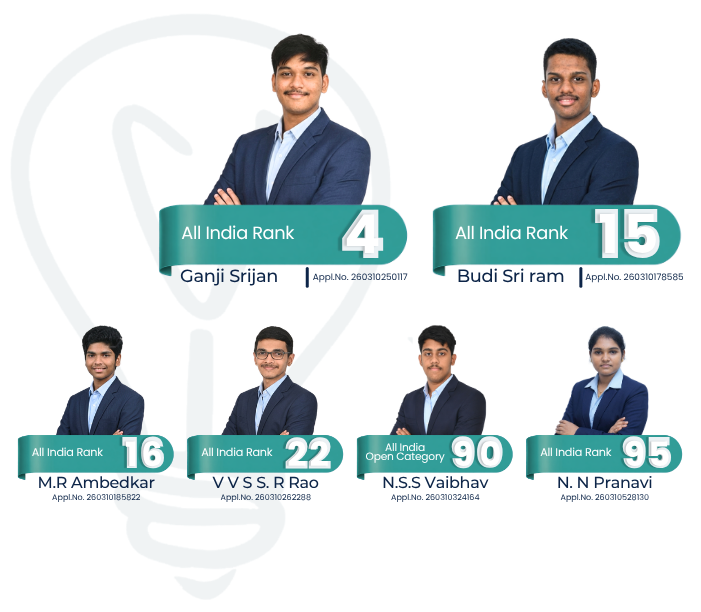
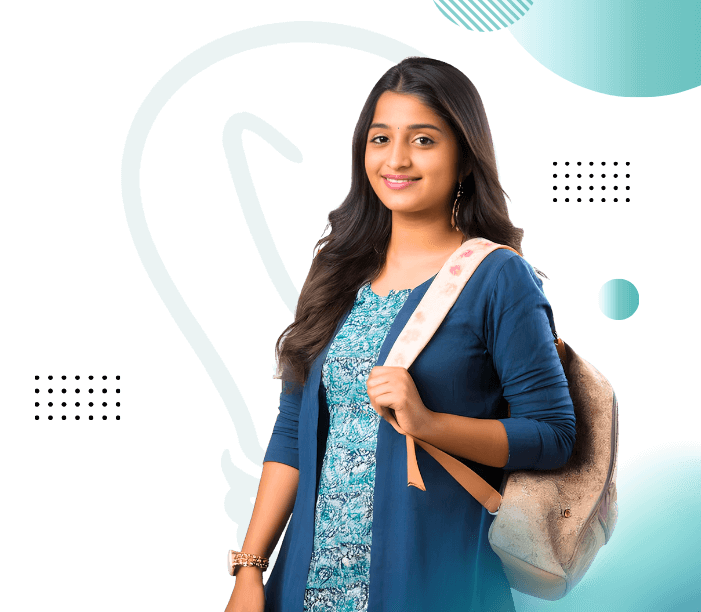
fixed

diff --git a/index.html b/index.html
@@ -163,7 +163,6 @@
     <!-- Hero Section -->
     <section id="hero" class="hero section">
       <div class="container" data-aos="fade-up" data-aos-delay="100">
-<<<<<<< HEAD
         <div class="row align-items-center">
           <div class="col-lg-7">
             <div class="hero-content" data-aos="fade-up" data-aos-delay="200">
@@ -191,16 +190,16 @@
           <div class="col-lg-5">
             <div class="hero-image" data-aos="zoom-out" data-aos-delay="300">
               <img src="assets/img/banner.png" alt="Hero Image" class="img-fluid">
-=======
-        <div class="row justify-content-center align-items-center p-md-0">
 
-          <div class="col-12 col-md-10 col-lg-12 text-center p-md-0">
-            <img src="assets/img/hero_banner.png" alt="Hero Image" class="img-fluid rounded-4">
+              <div class="customers-badge">
+
+                <img src="assets/img/logo_green.png" class="img-fluid">
+              </div>
+
+
+            </div>
           </div>
->>>>>>> a48c658a115e774c135b82ce45046f38d1d0c84c
-
         </div>
-
         <div class="row stats-row gy-4 mt-5 aos-init aos-animate" data-aos="fade-up" data-aos-delay="500">
           <div class="col-lg-3 col-md-6">
             <div class="stat-item">
@@ -542,15 +541,9 @@
                   Abhyas ensures that <b>teachers remain at the center of learning</b>, using structured methodologies
                   to <b>enhance classroom effectiveness and optimize student outcomes.</b>
                 </p>-->
-<<<<<<< HEAD
                 <!-- <div class="text-start">
                   <a href="#Request_for_Demo" class="btn btn-primary btn-sm newBt">Request a Pilot</a>
                 </div> -->
-=======
-                <div class="text-start">
-                  <a href="#Request_for_Demo" class="btn btn-primary btn-sm newBt">Request a Demo</a>
-                </div>
->>>>>>> a48c658a115e774c135b82ce45046f38d1d0c84c
                 <!--
                 <div class="hstack gap-2"> <a class="small-border" href="#Request_for_Demo">
                     <div class="profile d-flex align-items-center gap-2">
@@ -562,7 +555,7 @@
                             </td>
                             <td>
                               <div>
-                                <h4 class="profile-position">Request a Demo</h4>
+                                <h4 class="profile-position">Request for Demo</h4>
                               </div>
                             </td>
                           </tr>
@@ -662,11 +655,7 @@
             <div class="row mt-3 hidden-content-off">
 
               <div class="text-start mt-3">
-<<<<<<< HEAD
                 <a href="#Request_for_Demo" class="btn btn-primary btn-sm newBt">Request a Pilot</a>
-=======
-                <a href="#Request_for_Demo" class="btn btn-primary btn-sm newBt">Request a Demo</a>
->>>>>>> a48c658a115e774c135b82ce45046f38d1d0c84c
               </div>
 
 
@@ -680,71 +669,6 @@
 
           </div>
 
-<<<<<<< HEAD
-=======
-                </p>
-                <p>
-                  DigiVal is the <b>next-generation digital valuation system</b>, transforming traditional paper based
-                  grading
-                  into a <b>fast, accurate, and fully digital process.</b>
-                </p>
-                <p>
-                  Paper Based grading is slow, inconsistent, and resource-intensive. DigiVal <b>digitizes and automates
-                    the
-                    evaluation process</b>, eliminating administrative burdens while ensuring <b>precision,
-                    transparency, and
-                    security.</b>
-                </p>
-
-
-
-
-              </div>
-              <div class="col-lg-6 order-1 order-lg-2 text-center ">
-                <img src="assets/img/digi.png" alt="" class="img-fluid">
-
-              </div>
-            </div>
-            <div class="row">
-              <div class="col-12">
-                <div class="subhdng">Key Features:</div>
-                <ul>
-                  <li><i class="bi bi-check2-all"></i> <span><b>Efficient Digital Grading</b> – Eliminates manual paper
-                      handling and reduces grading time significantly </span> </li>
-                  <li><i class="bi bi-check2-all"></i> <span><b>Instant, Transparent Results</b> – Fast-tracked
-                      evaluation process with real-time access to results</span></li>
-                  <li><i class="bi bi-check2-all"></i> <span><b>Bias-Free, Anonymous Marking</b> – Ensures fair and
-                      standardized assessment across all subjects</span></li>
-                  <li><i class="bi bi-check2-all"></i> <span><b>Secure Digital Records</b> – Prevents loss of answer
-                      sheets with cloud-based storage and access</span></li>
-                  <li><i class="bi bi-check2-all"></i> <span><b>Seamless Integration</b> – Compatible with existing
-                      school management platforms
-                    </span></li>
-                </ul>
-                <p>
-                  DigiVal modernizes the grading process, bringing <b>speed, accuracy, and reliability to academic
-                    assessments.</b>
-                </p>
-                <div class="text-start">
-                  <a href="#Request_for_Demo" class="btn btn-primary btn-sm newBt">Request a Demo</a>
-                </div>
-              </div>
-
-            </div>
-            <!--
-            <div class="read_bt">
-              <a class="readMoreBtn"  data-target="hiddenContent4">Read More</a>
-            </div>
--->
-
-
-          </div>
-          <!-- End tab content item -->
-
-
-
-          <!-- End tab content item -->
->>>>>>> a48c658a115e774c135b82ce45046f38d1d0c84c
         </div>
 
       </div>
@@ -1001,11 +925,7 @@
             </div>
           </div>
           <div class="col-lg-7">
-<<<<<<< HEAD
              <div class="contact-form" data-aos="fade-up" data-aos-delay="300" id="Request_for_Demo">
-=======
-            <div class="contact-form" data-aos="fade-up" data-aos-delay="300" id="Request_for_Demo">
->>>>>>> a48c658a115e774c135b82ce45046f38d1d0c84c
               <h3>Request a Demo</h3>
               <form class="php-email-form" data-aos="fade-up" data-aos-delay="200">
                 <div class="row gy-4">
